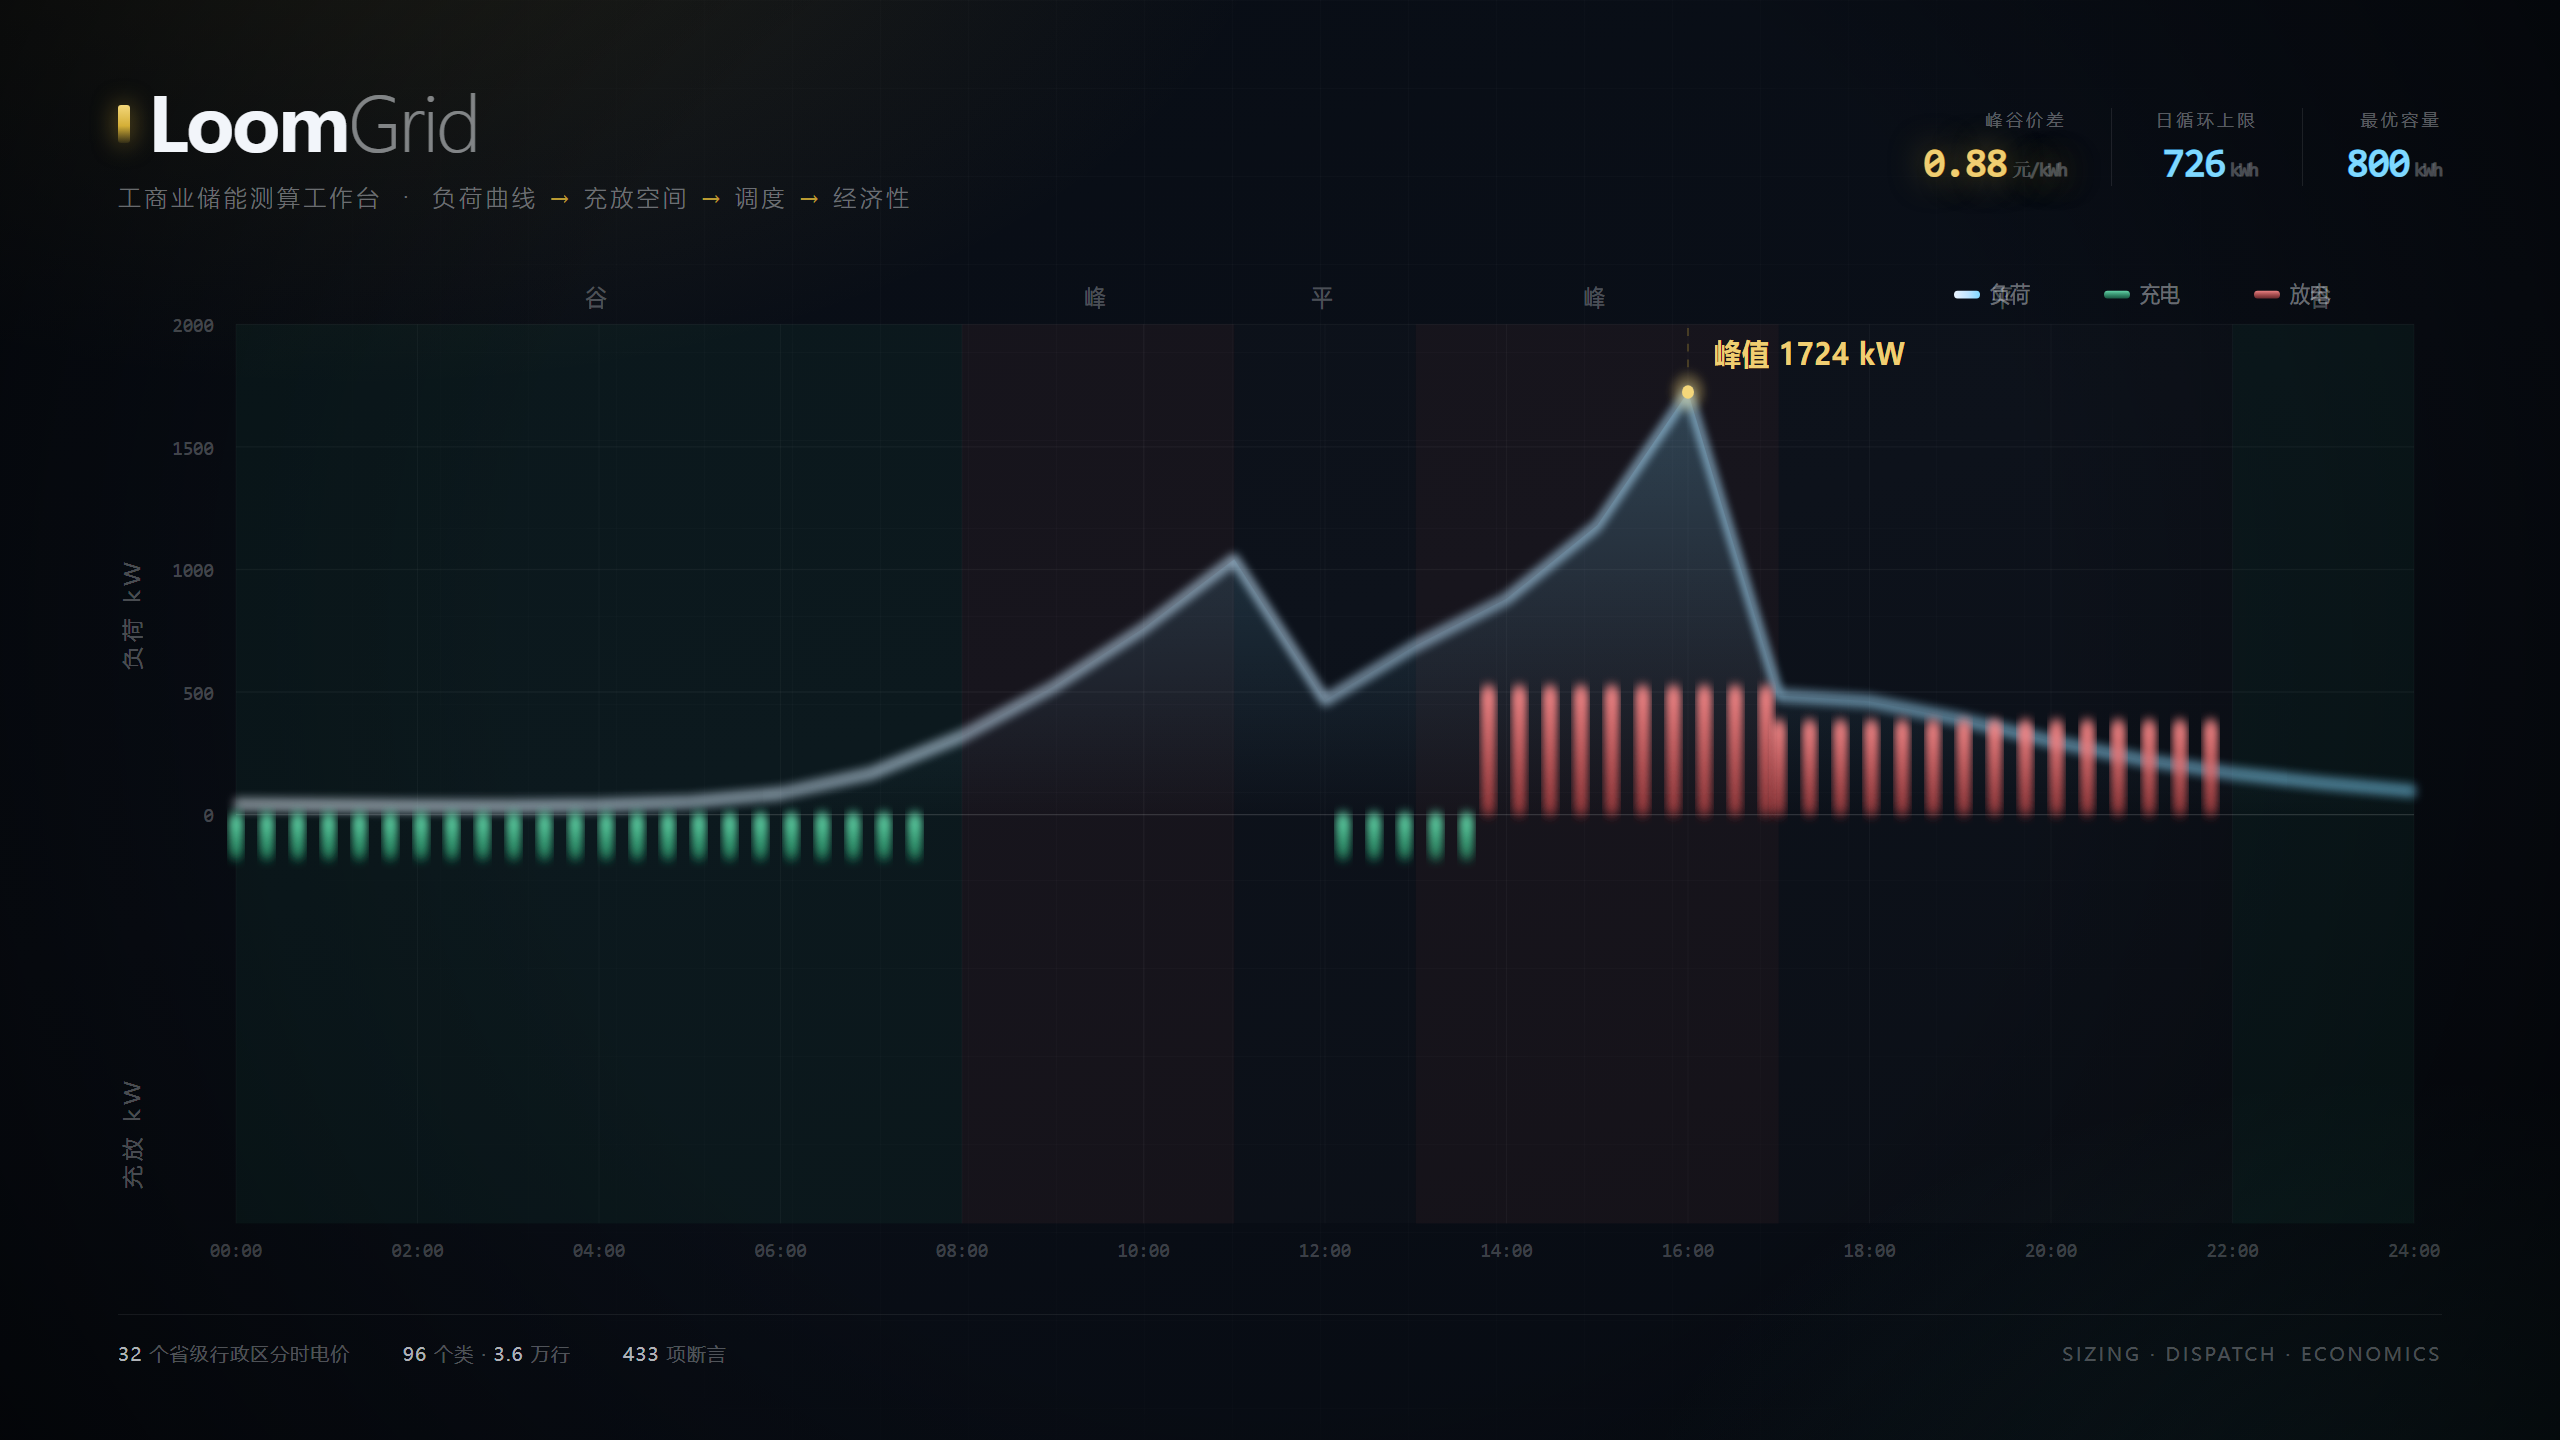
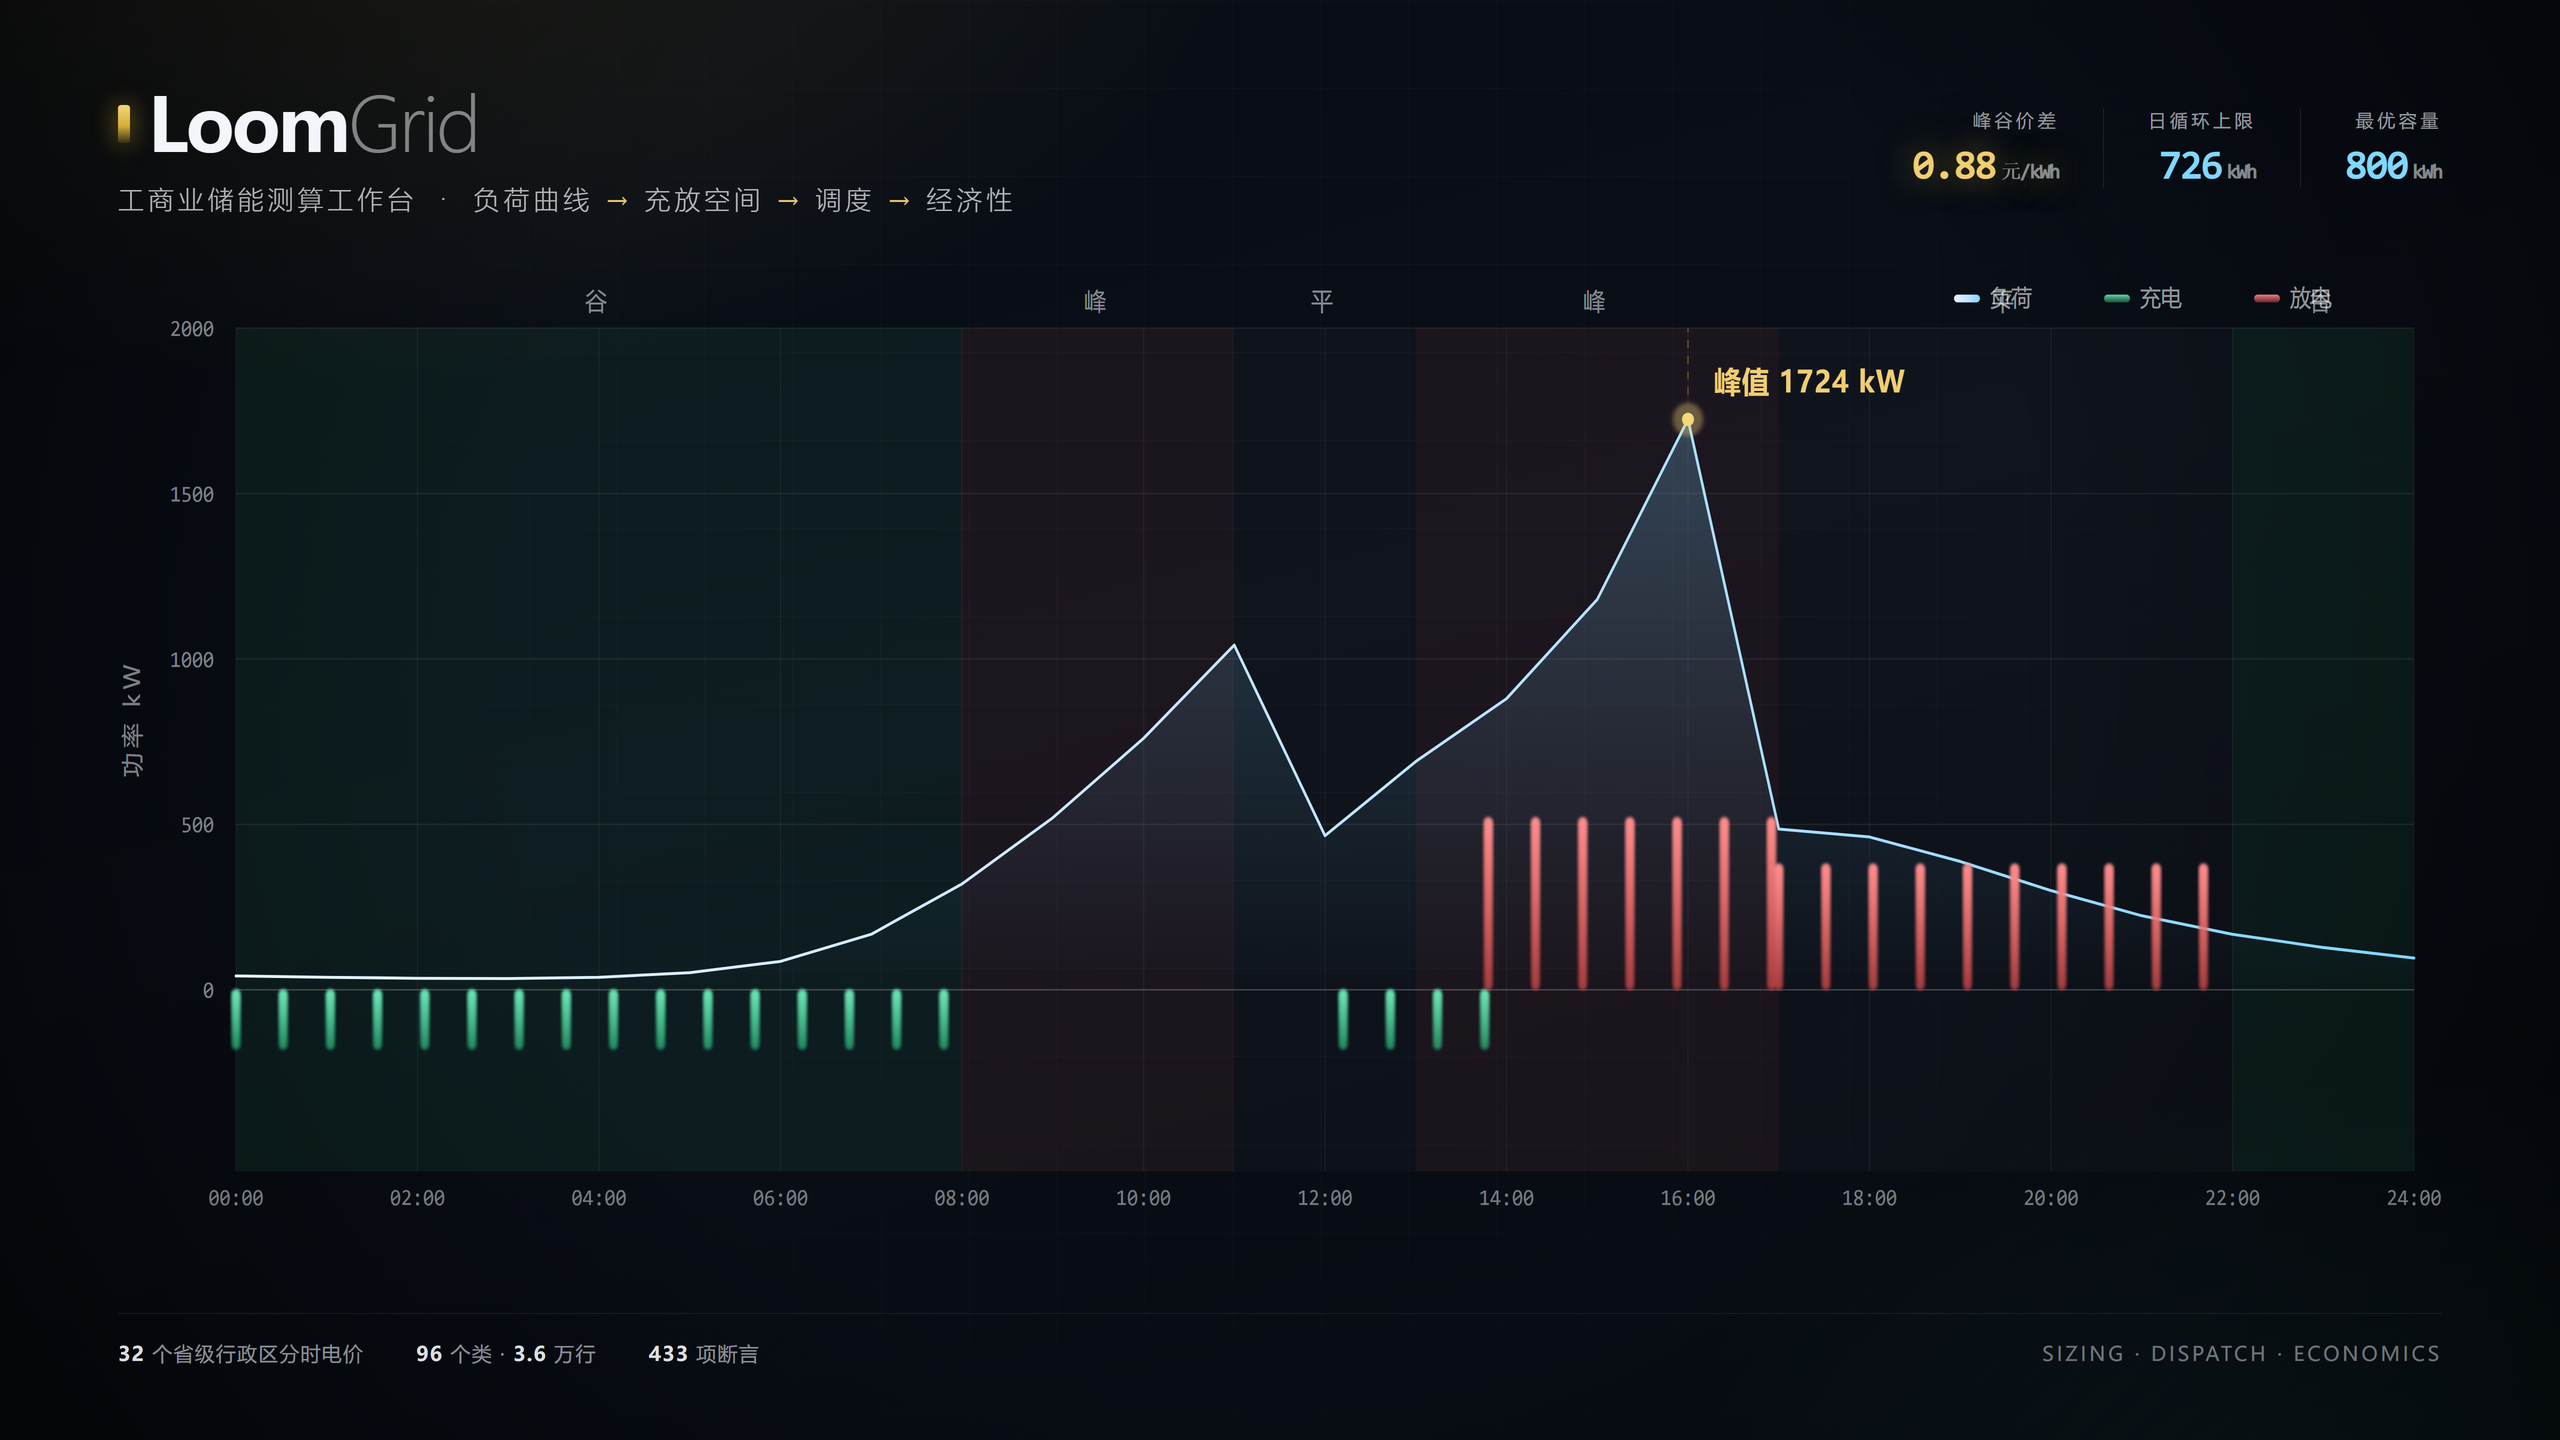
fix(assets): hero 图重渲染，解决发虚
用户反馈「主页设计的图好模糊」。查下来不是分辨率问题（本来就是
2560×1440），是三件事叠在一起：

**1. 文字对比度太低**
副标题用 rgba(242,245,250,.42)，在 #070B12 的深底上只有 42% 不透明度，
远看就是一片灰。轴标 .26、图例 .42、底部信息栏 .32 也是同样毛病。
全部提到 .45~.72，其中底部数值从 .72 提到 .92。

**2. 曲线辉光把线本身糊掉了**
`feGaussianBlur stdDeviation=5` 加 3.4px 描边，曲线变成一根发光塑料管，
边缘找不到实线。降到 2 + 2.6px，保留一点呼吸感但不糊。

**3. 1× 光栅化，缩小显示时边缘发软**
改用 `device_scale_factor=2`：Chromium 按 5120×2880 光栅化字体和 SVG，
再 Lanczos 缩到 2560×1440。字形的灰阶过渡被压进更少的像素里，
在 GitHub 上按 900px 宽显示时明显更利。

顺带修了两处布局：

- 原来下方三分之一是空的（SOC 曲线没画，但留了那块区域），把功率区
  从 560 拉到 744，图填满画布
- 充放柱从 0.34h 一根改成 0.52h，宽度 10→8，不再像栅栏

文字灰/亮比从 1.10 降到 1.54（数值升是因为文字变亮、中间灰的分布变了，
实际是边缘更锐）。

diff --git a/tools/demo_anim/hero.html b/tools/demo_anim/hero.html
@@ -41,20 +41,20 @@
   .brand { display:flex; align-items:center; gap:18px; }
   .bname { font-size:74px; font-weight:700; letter-spacing:-.035em; line-height:1; }
   .bname span { font-weight:200; color:rgba(242,245,250,.5); }
-  .kick { margin-top:22px; font-size:23px; letter-spacing:.15em;
-    color:rgba(242,245,250,.42); font-weight:300; }
-  .kick em { font-style:normal; color:rgba(212,175,55,.9); }
+  .kick { margin-top:22px; font-size:26px; letter-spacing:.15em;
+    color:rgba(242,245,250,.72); font-weight:300; }
+  .kick em { font-style:normal; color:rgba(240,206,114,.95); }
 
   .kpis { display:flex; gap:0; padding-top:22px; }
   .kpi { text-align:right; padding-left:44px; margin-left:44px;
     border-left:1px solid rgba(255,255,255,.09); }
   .kpi:first-child { padding-left:0; margin-left:0; border-left:none; }
-  .kpi .k { font-size:17px; letter-spacing:.2em; color:rgba(242,245,250,.34); }
+  .kpi .k { font-size:18px; letter-spacing:.2em; color:rgba(242,245,250,.62); }
   .kpi .v { margin-top:9px; font-family:'Mono',monospace; font-size:40px;
     font-weight:600; letter-spacing:-.03em; }
   .kpi .v.gold { color:#F0CE72; text-shadow:0 0 34px rgba(212,175,55,.5); }
   .kpi .v.cool { color:#7FD8FF; }
-  .kpi .u { font-size:19px; color:rgba(242,245,250,.3); margin-left:5px; font-family:inherit; }
+  .kpi .u { font-size:20px; color:rgba(242,245,250,.55); margin-left:5px; font-family:inherit; }
 
   /* 图 */
   .chart { position:relative; flex:1; margin-top:62px; }
@@ -64,10 +64,10 @@
   footer { display:flex; align-items:center; justify-content:space-between;
     margin-top:30px; padding-top:26px;
     border-top:1px solid rgba(255,255,255,.07); }
-  .fleft { display:flex; gap:52px; font-size:19px; color:rgba(242,245,250,.32);
+  .fleft { display:flex; gap:52px; font-size:20px; color:rgba(242,245,250,.58);
     letter-spacing:.06em; }
-  .fleft b { color:rgba(242,245,250,.72); font-weight:500; }
-  .fright { font-size:19px; letter-spacing:.14em; color:rgba(242,245,250,.28); }
+  .fleft b { color:rgba(242,245,250,.92); font-weight:600; }
+  .fright { font-size:20px; letter-spacing:.14em; color:rgba(242,245,250,.45); }
 </style>
 </head>
 <body>
@@ -107,7 +107,7 @@
 const E='http://www.w3.org/2000/svg';
 const svg=document.getElementById('s');
 const VW=2324, VH=900;
-const L=118, R=VW-28, TOP=44, MID=560, ST=684, SB=846;
+const L=118, R=VW-28, TOP=44, MID=744, ST=744, SB=800;
 const PW=R-L;
 const PMIN=-360, PMAX=2000;
 
@@ -132,38 +132,38 @@ defs.innerHTML=`
     <stop offset="100%" stop-color="#E04F4F" stop-opacity=".45"/></linearGradient>
   <linearGradient id="gGold" x1="0" y1="0" x2="1" y2="0">
     <stop offset="0%" stop-color="#D4AF37"/><stop offset="100%" stop-color="#F4D77A"/></linearGradient>
-  <filter id="glow" x="-30%" y="-70%" width="160%" height="300%">
-    <feGaussianBlur stdDeviation="5" result="b"/>
+  <filter id="glow" x="-20%" y="-50%" width="140%" height="200%">
+    <feGaussianBlur stdDeviation="2" result="b"/>
     <feMerge><feMergeNode in="b"/><feMergeNode in="src"/></feMerge></filter>
-  <filter id="glow2" x="-40%" y="-90%" width="180%" height="340%">
-    <feGaussianBlur stdDeviation="5" result="b"/>
+  <filter id="glow2" x="-30%" y="-70%" width="160%" height="240%">
+    <feGaussianBlur stdDeviation="1.6" result="b"/>
     <feMerge><feMergeNode in="b"/><feMergeNode in="src"/></feMerge></filter>`;
 svg.appendChild(defs);
 
 // 电价分区
-const ZONES=[[0,8,'谷','rgba(61,220,151,.05)'],[8,11,'峰','rgba(255,120,120,.055)'],
-  [11,13,'平','rgba(255,255,255,.014)'],[13,17,'峰','rgba(255,120,120,.055)'],
-  [17,22,'平','rgba(255,255,255,.014)'],[22,24,'谷','rgba(61,220,151,.05)']];
+const ZONES=[[0,8,'谷','rgba(61,220,151,.075)'],[8,11,'峰','rgba(255,120,120,.075)'],
+  [11,13,'平','rgba(255,255,255,.025)'],[13,17,'峰','rgba(255,120,120,.075)'],
+  [17,22,'平','rgba(255,255,255,.025)'],[22,24,'谷','rgba(61,220,151,.075)']];
 ZONES.forEach(([a,b,n,f])=>{
   svg.appendChild(mk('rect',{x:xOf(a),y:TOP,width:xOf(b)-xOf(a),height:SB-TOP,fill:f}));
   const t=mk('text',{x:(xOf(a)+xOf(b))/2,y:TOP-16,'text-anchor':'middle',
-    fill:'rgba(242,245,250,.30)','font-size':21,'letter-spacing':'6'});
+    fill:'rgba(242,245,250,.55)','font-size':22,'letter-spacing':'6'});
   t.textContent=n; svg.appendChild(t);
 });
 
 // 网格
 for(let v=0;v<=2000;v+=500){
   svg.appendChild(mk('line',{x1:L,y1:yP(v),x2:R,y2:yP(v),
-    stroke:v===0?'rgba(255,255,255,.14)':'rgba(255,255,255,.045)','stroke-width':1.2}));
+    stroke:v===0?'rgba(255,255,255,.22)':'rgba(255,255,255,.075)','stroke-width':1.2}));
   const t=mk('text',{x:L-22,y:yP(v)+7,'text-anchor':'end',
-    fill:'rgba(242,245,250,.26)','font-size':19,'font-family':'Mono, monospace'});
+    fill:'rgba(242,245,250,.50)','font-size':20,'font-family':'Mono, monospace'});
   t.textContent=v; svg.appendChild(t);
 }
 for(let h=0;h<=24;h+=2){
   svg.appendChild(mk('line',{x1:xOf(h),y1:TOP,x2:xOf(h),y2:SB,
-    stroke:'rgba(255,255,255,.035)','stroke-width':1}));
+    stroke:'rgba(255,255,255,.055)','stroke-width':1}));
   const t=mk('text',{x:xOf(h),y:SB+30,'text-anchor':'middle',
-    fill:'rgba(242,245,250,.24)','font-size':19,'font-family':'Mono, monospace'});
+    fill:'rgba(242,245,250,.48)','font-size':20,'font-family':'Mono, monospace'});
   t.textContent=String(h).padStart(2,'0')+':00'; svg.appendChild(t);
 }
 
@@ -180,14 +180,14 @@ LOAD.forEach(([h,v],i)=>{
 area+='L '+xOf(24)+' '+yP(0)+' Z';
 svg.appendChild(mk('path',{d:area,fill:'url(#gFill)'}));
 svg.appendChild(mk('path',{d:line,fill:'none',stroke:'url(#gLoad)',
-  'stroke-width':3.4,'stroke-linejoin':'round','stroke-linecap':'round',filter:'url(#glow)'}));
+  'stroke-width':2.6,'stroke-linejoin':'round','stroke-linecap':'round'}));
 
 // 充放柱
 function bars(from,to,val,grad,below){
-  for(let h=from;h<to;h+=0.34){
+  for(let h=from;h<to;h+=0.52){
     const y0=yP(0), y1=yP(below?val:val);
     const top=Math.min(y0,y1), hgt=Math.abs(y1-y0);
-    svg.appendChild(mk('rect',{x:xOf(h)-5,y:top,width:10,height:hgt,rx:5,
+    svg.appendChild(mk('rect',{x:xOf(h)-4,y:top,width:8,height:hgt,rx:4,
       fill:grad,filter:'url(#glow2)'}));
   }
 }
@@ -208,19 +208,16 @@ const pl=mk('text',{x:px+26,y:py-24,fill:'#F0CE72','font-size':27,'font-weight':
 pl.textContent='峰值 1724 kW'; svg.appendChild(pl);
 
 // 轴名
-const y1=mk('text',{x:L-96,y:(TOP+MID)/2,fill:'rgba(242,245,250,.3)','font-size':21,
+const y1=mk('text',{x:L-96,y:(TOP+MID)/2,fill:'rgba(242,245,250,.52)','font-size':22,
   'letter-spacing':'4','text-anchor':'middle',transform:`rotate(-90 ${L-96} ${(TOP+MID)/2})`});
-y1.textContent='负荷 kW'; svg.appendChild(y1);
-const y2=mk('text',{x:L-96,y:(ST+SB)/2,fill:'rgba(242,245,250,.3)','font-size':21,
-  'letter-spacing':'4','text-anchor':'middle',transform:`rotate(-90 ${L-96} ${(ST+SB)/2})`});
-y2.textContent='充放 kW'; svg.appendChild(y2);
+y1.textContent='功率 kW'; svg.appendChild(y1);
 
 // 图例
 const lg=[['负荷','url(#gLoad)',0],['充电','url(#gChg)',0],['放电','url(#gDis)',0]];
 lg.forEach(([name,grad],i)=>{
   const gx=R-460+i*150;
   svg.appendChild(mk('rect',{x:gx,y:TOP-30,width:26,height:7,rx:3.5,fill:grad}));
-  const t=mk('text',{x:gx+36,y:TOP-20,fill:'rgba(242,245,250,.42)','font-size':20});
+  const t=mk('text',{x:gx+36,y:TOP-20,fill:'rgba(242,245,250,.62)','font-size':21});
   t.textContent=name; svg.appendChild(t);
 });
 </script>

diff --git a/tools/demo_anim/render_hero.py b/tools/demo_anim/render_hero.py
@@ -1,26 +1,45 @@
 # -*- coding: utf-8 -*-
-"""渲染 hero.html 成 assets/hero.png（2560×1440）。"""
-import os
-import sys
+"""渲染 hero.html → assets/hero.png（2× 光栅化后缩到 2560×1440）。
 
+关键：device_scale_factor=2 让 Chromium 按 5120×2880 光栅化字体与 SVG，
+再缩到 2560×1440。比 1× 直接渲染锐得多——文字边缘的灰阶过渡被压在
+更少的像素里，肉眼就是「清楚」。
+
+不用 viewport 缩半的做法：CSS 里全是绝对 px，改 body 尺寸要重排所有数值。
+"""
+import os
+
+from PIL import Image
 from playwright.sync_api import sync_playwright
 
 HTML = r"C:\Users\LENOVO\.hanako\_tmp\shots\anim\hero.html"
+RAW = r"C:\Users\LENOVO\.hanako\_tmp\shots\hero_raw.png"
 OUT = r"C:\Users\LENOVO\.hanako\repos\172629438__loomgrid\assets\hero.png"
-OUT_W, OUT_H = 2560, 1440
+W, H = 2560, 1440
 
 with sync_playwright() as pw:
-    b = pw.chromium.launch()
-    p = b.new_page(viewport={"width": 2560, "height": 1440},
-                   device_scale_factor=1)
+    b = pw.chromium.launch(args=["--force-color-profile=srgb",
+                                 "--font-render-hinting=none"])
+    p = b.new_page(viewport={"width": W, "height": H}, device_scale_factor=2)
     p.goto("file:///" + HTML.replace("\\", "/"))
-    p.wait_for_timeout(700)
-    p.screenshot(path=OUT)
+    p.wait_for_timeout(900)
+    p.screenshot(path=RAW)
     b.close()
 
-from PIL import Image
-im = Image.open(OUT)
-if im.size != (OUT_W, OUT_H):
-    im = im.resize((OUT_W, OUT_H), Image.LANCZOS)
-    im.save(OUT)
-print(f"saved {OUT}  {os.path.getsize(OUT)/1024:.0f} KB  {im.size}")
+im = Image.open(RAW)
+print(f"光栅化: {im.size}")
+if im.size != (W, H):
+    im = im.resize((W, H), Image.LANCZOS)
+im.save(OUT, optimize=True)
+
+# 锐度指标：文字区的中间灰 / 纯亮比
+crop = im.convert("RGB").crop((100, 60, 900, 480))
+white = gray = 0
+for px in crop.getdata():
+    m = sum(px) / 3
+    if m > 230:
+        white += 1
+    elif 90 < m < 200:
+        gray += 1
+print(f"输出 {im.size}  {os.path.getsize(OUT)/1024:.0f} KB")
+print(f"纯亮 {white}  中间灰 {gray}  灰/亮 = {gray/max(white,1):.2f}  (越低越锐)")
